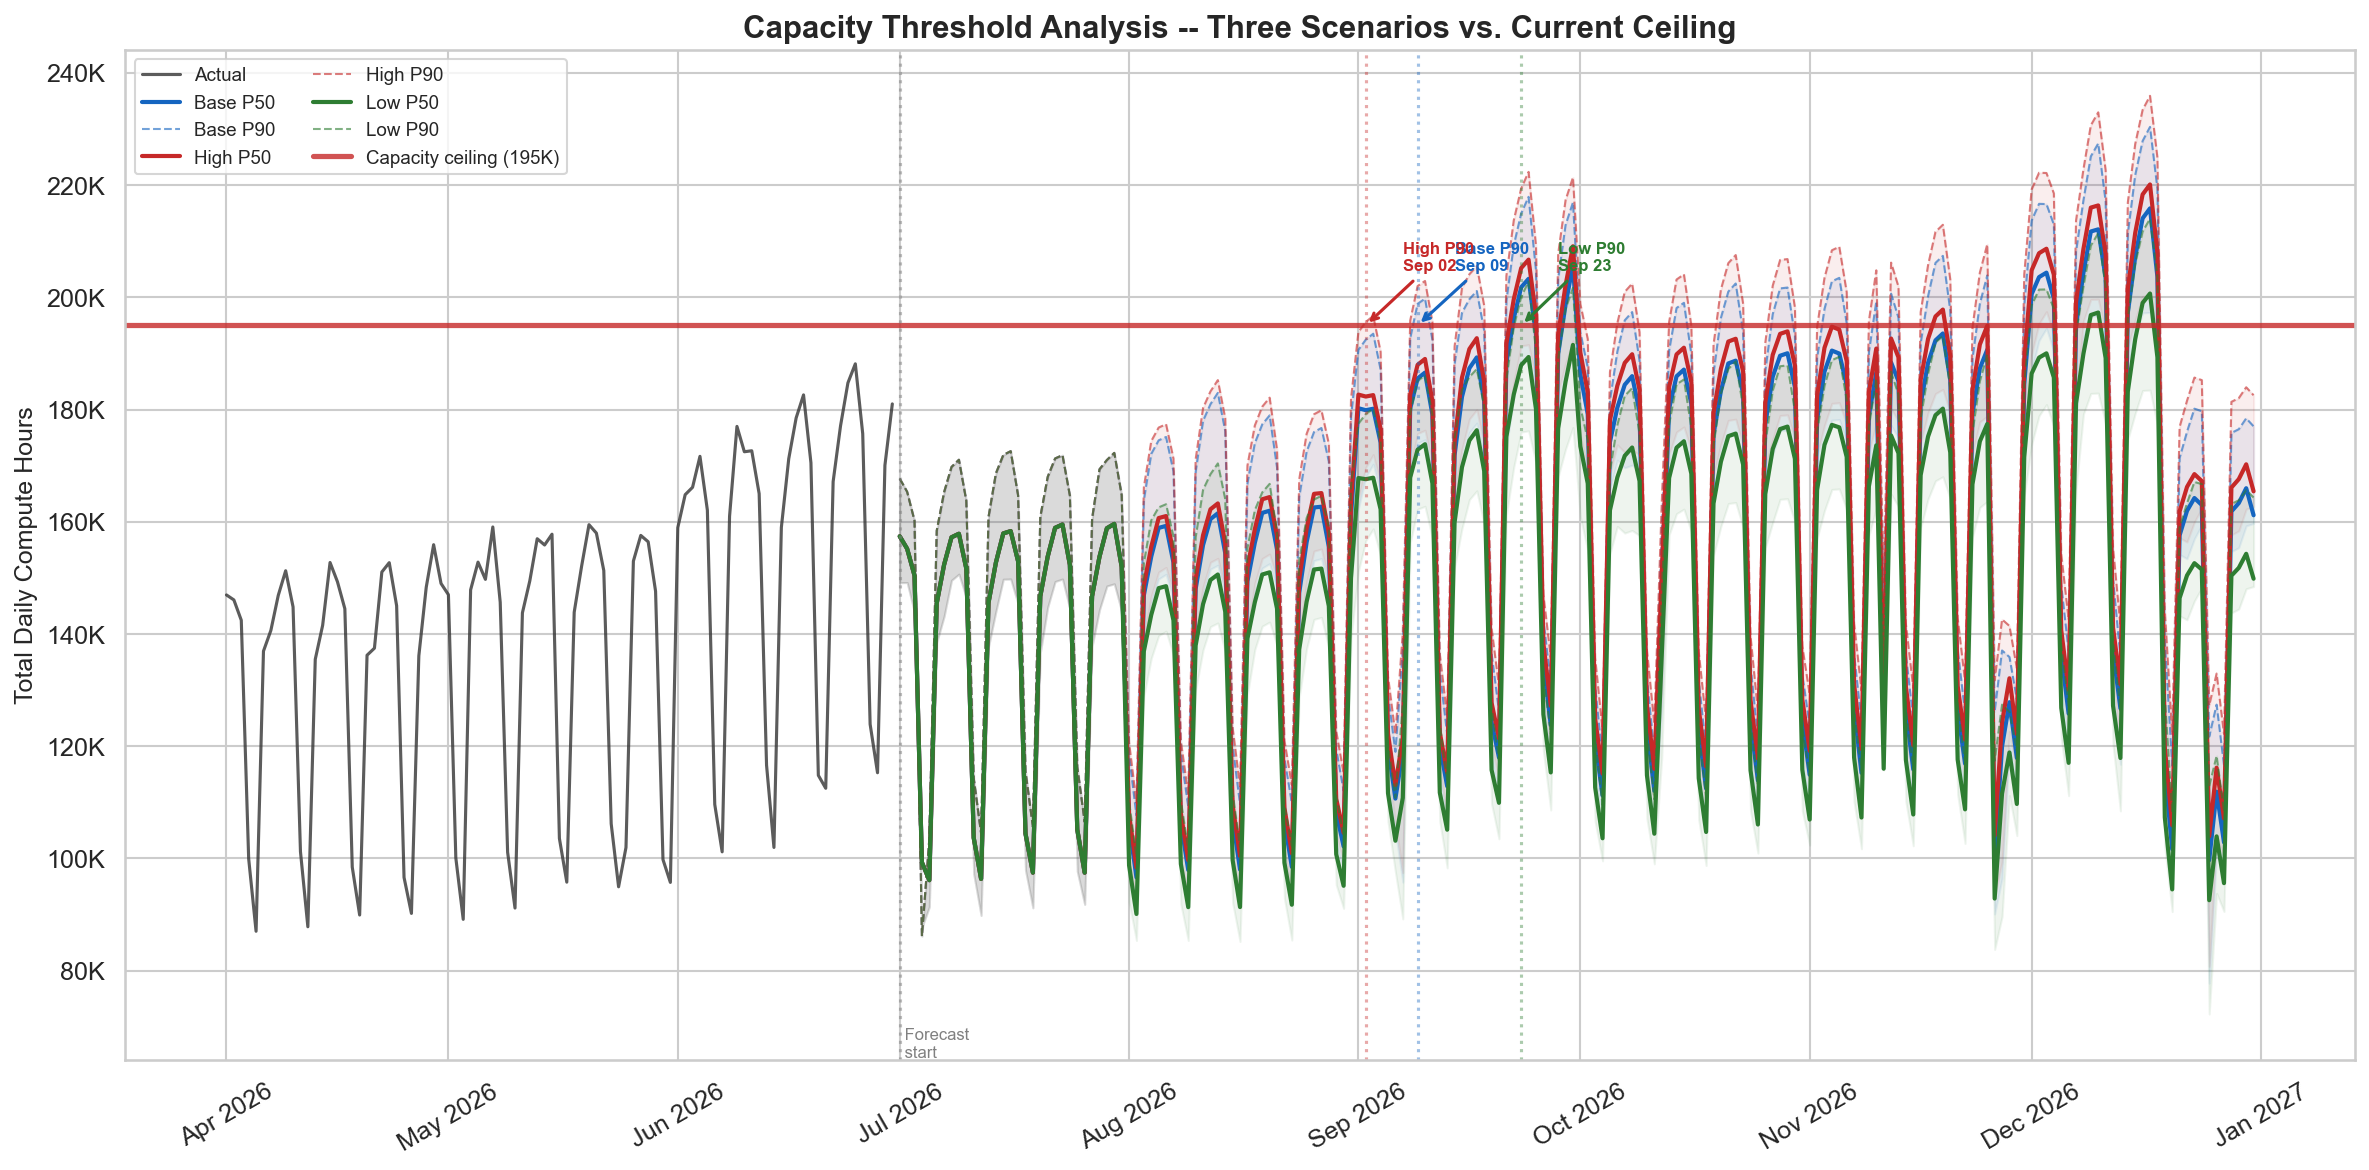
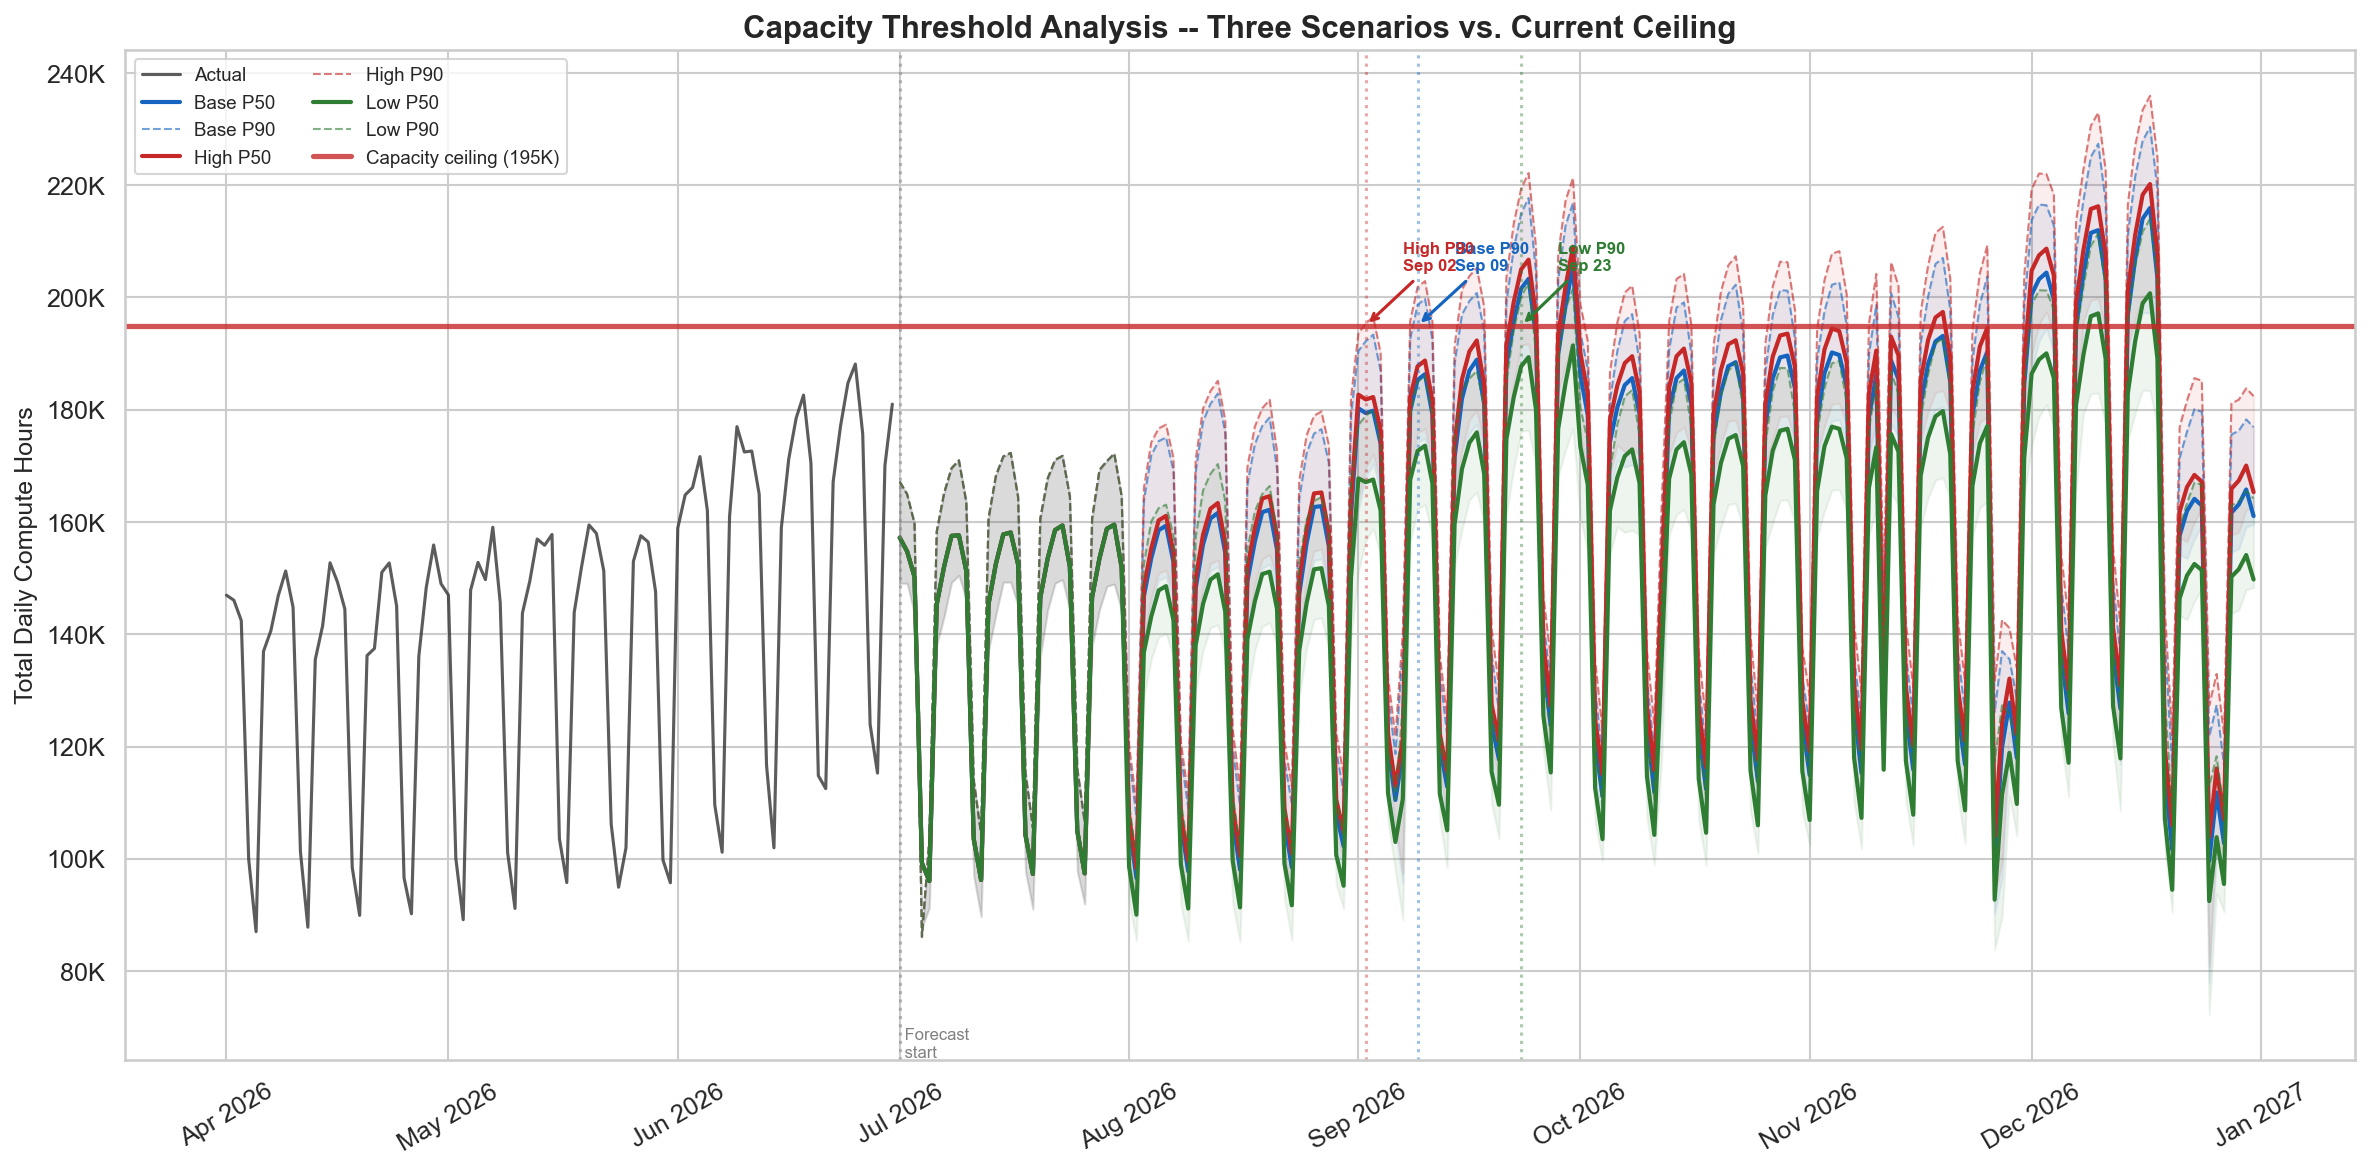
fix(compute-forecasting): update recursive MAPE to 7.96%, refresh figures
- Recursive MAPE 7.95% -> 7.96% after fixing backtest to be truly recursive
- Refresh scenario and fan chart figures from notebook rerun

diff --git a/src/data/projects.ts b/src/data/projects.ts
@@ -153,7 +153,7 @@ export const projects: Project[] = [
             "Trend extrapolation assumes growth rates continue — actual acceleration or deceleration would shift timelines",
             "Hyperparameters are sensible defaults, not optimized — tuning would likely improve results but wasn't the focus"
           ]},
-          { type: "text", value: "On the positive side: recursive forecast validation shows 7.95% MAPE over 6 months vs 7.94% single-step — the hybrid decomposition prevents the error compounding that plagues most recursive forecasts." },
+          { type: "text", value: "On the positive side: recursive forecast validation shows 7.96% MAPE over 6 months vs 7.94% single-step — the hybrid decomposition prevents the error compounding that plagues most recursive forecasts." },
           { type: "callout", value: "Showing limitations isn't a weakness. It's what separates a methodology demonstration from production claims." }
         ]
       },